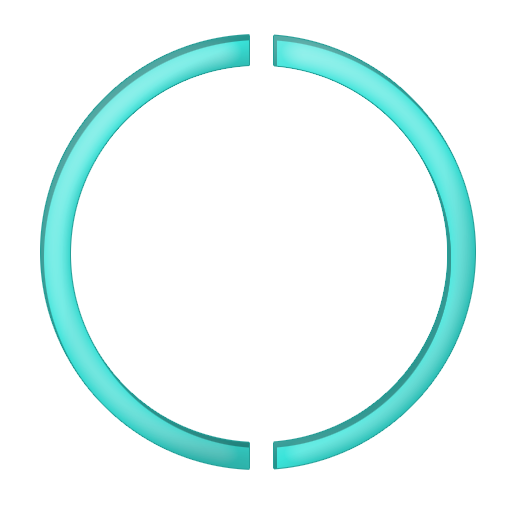
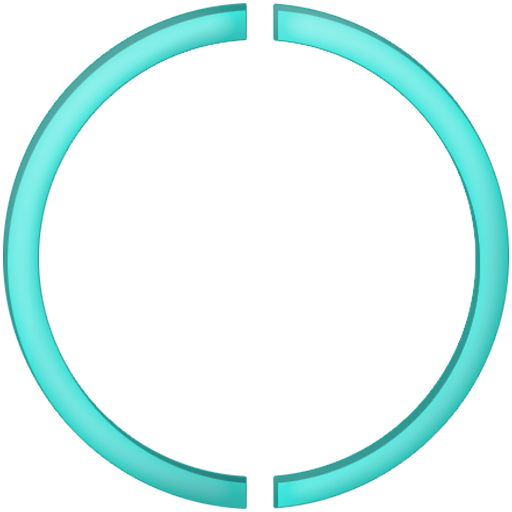
FIX: bug overlapping objects that are too close (lifeHUD bug)

diff --git a/app/src/main/java/imac/supernova/ARVuforia/FrameMarkerRenderer.java b/app/src/main/java/imac/supernova/ARVuforia/FrameMarkerRenderer.java
@@ -63,7 +63,7 @@ public class FrameMarkerRenderer implements GLSurfaceView.Renderer
     // Constants:
     static private float shipScale = 1.0f;
     static private float kLetterTranslate = 0.0f;
-    static private float lifeHUDScale = 30.0f;
+    static private float lifeHUDScale = 23.0f;
 
     private FighterBohregon fighterBohregon = new FighterBohregon();
     private PlaneObject plane = new PlaneObject();
@@ -155,8 +155,8 @@ public class FrameMarkerRenderer implements GLSurfaceView.Renderer
         // We must detect if background reflection is active and adjust the culling direction.
         // If the reflection is active, this means the post matrix has been reflected as well,
         // therefore standard counter clockwise face culling will result in "inside out" models.
-        GLES20.glEnable(GLES20.GL_CULL_FACE);
-        GLES20.glCullFace(GLES20.GL_BACK);
+//        GLES20.glEnable(GLES20.GL_CULL_FACE);
+//        GLES20.glCullFace(GLES20.GL_BACK);
         if (Renderer.getInstance().getVideoBackgroundConfig().getReflection() == VIDEO_BACKGROUND_REFLECTION.VIDEO_BACKGROUND_REFLECTION_ON)
             GLES20.glFrontFace(GLES20.GL_CW);  // Front camera
         else
